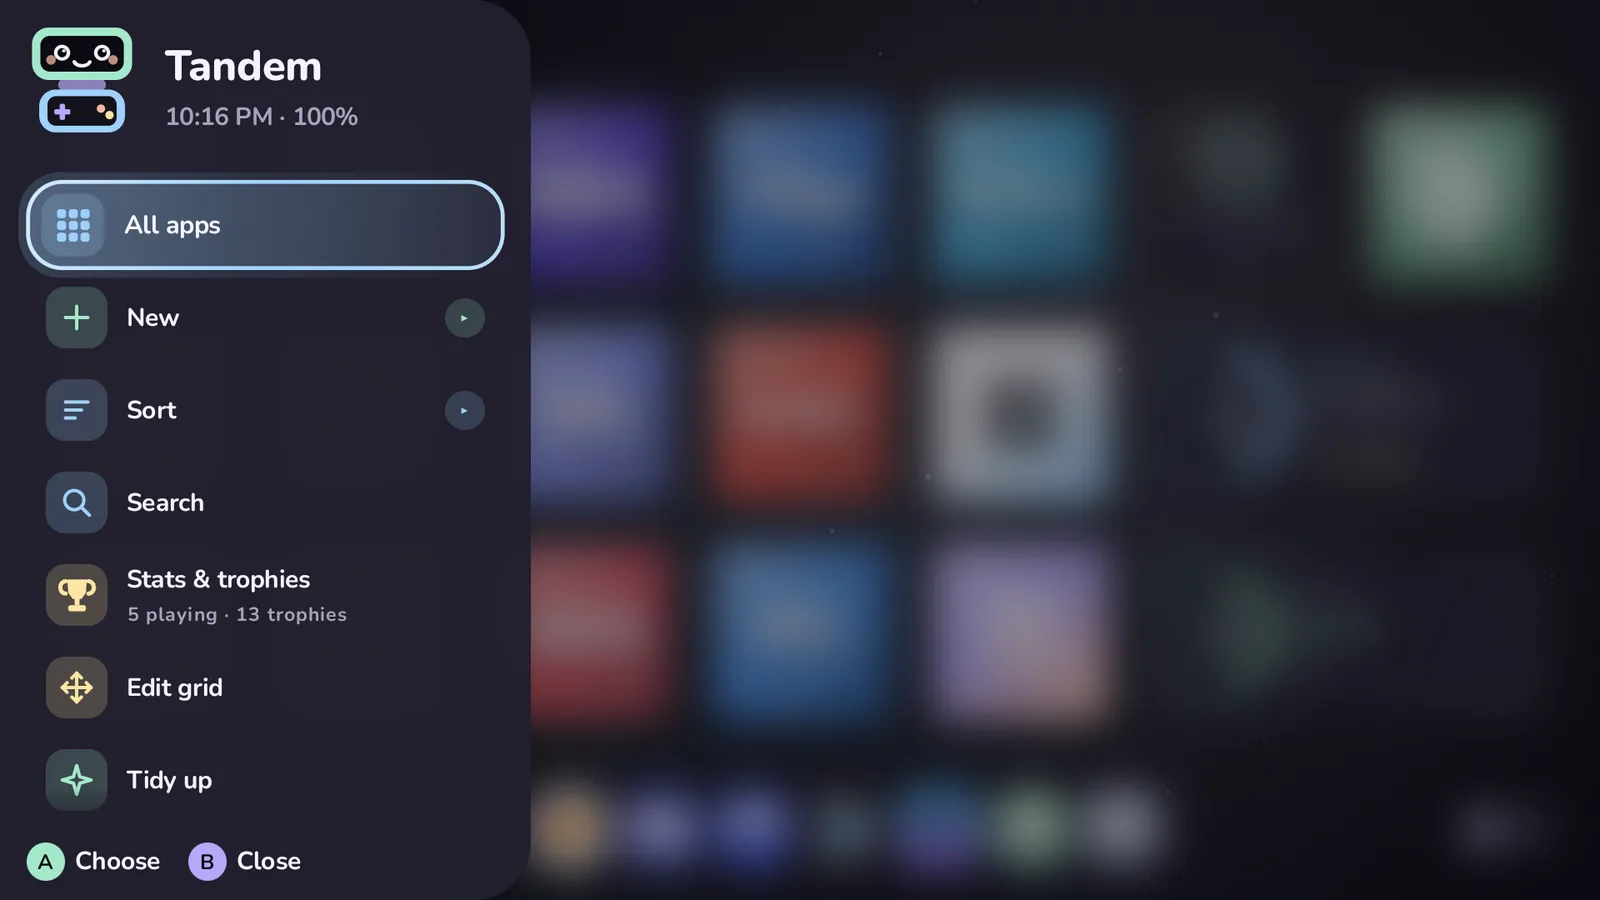
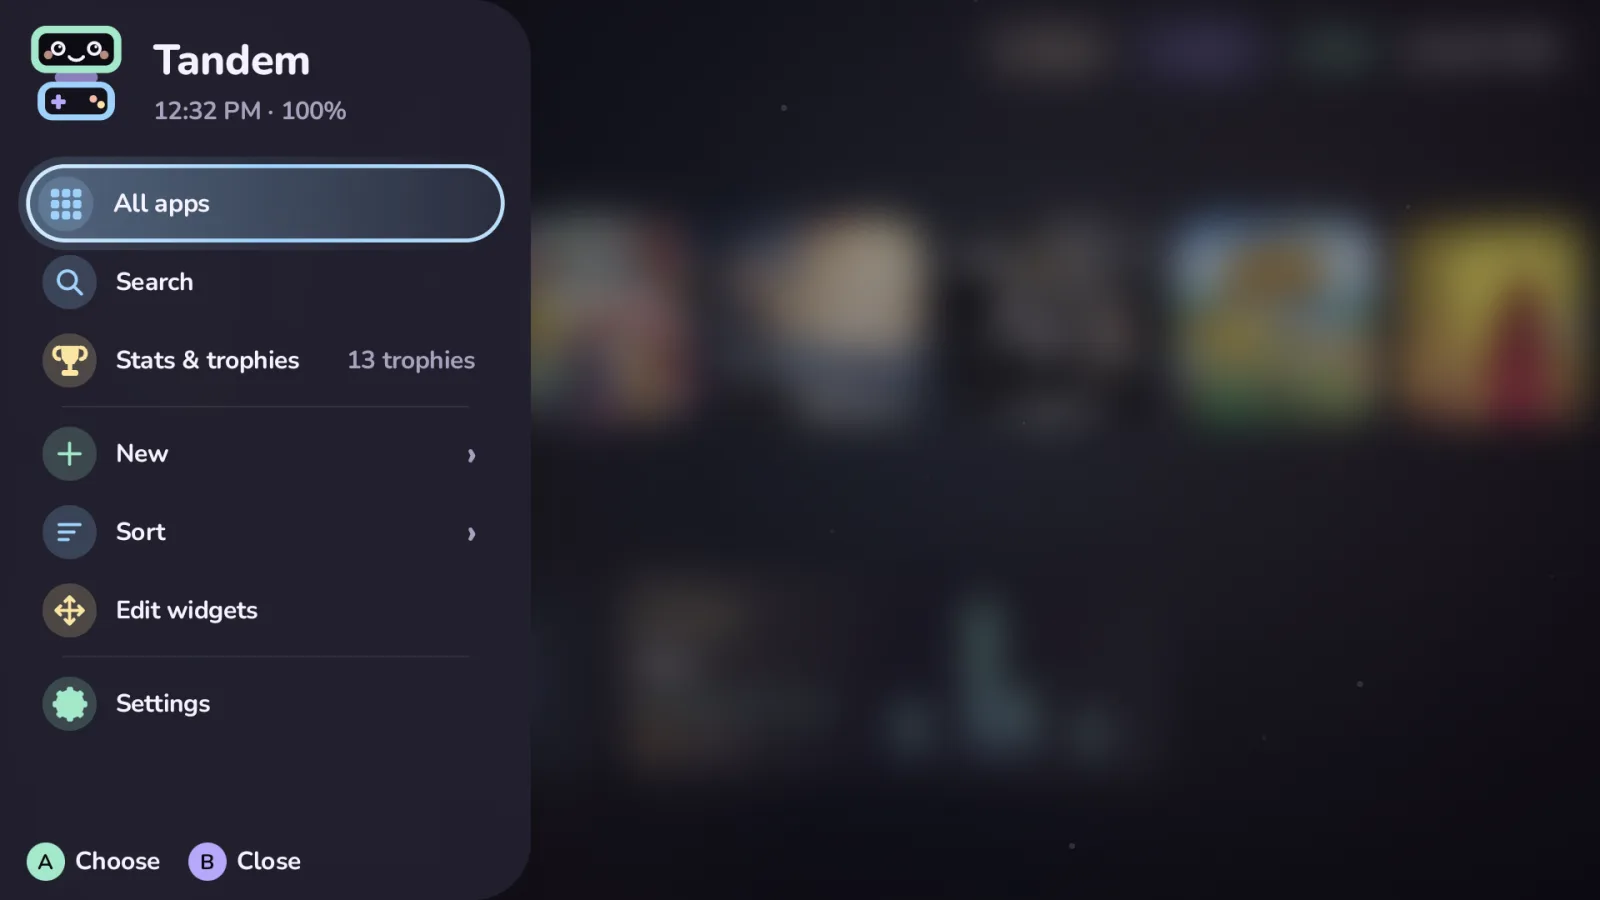
docs: screenshots of the new panels, systems, choices and scrape screen

diff --git a/site/index.html b/site/index.html
@@ -261,7 +261,7 @@
       <figure class="shot sm reveal"><img src="assets/screenshots/home-bottom.webp" width="1000" height="871" loading="lazy" decoding="async" alt="Bottom screen greeting: Pip, the time, a greeting, how many games are ready to play, and the last game played."><figcaption><b>Pip says hello</b> when nothing is highlighted.</figcaption></figure>
       <figure class="shot sm reveal"><img src="assets/screenshots/game-bottom.webp" width="1000" height="871" loading="lazy" decoding="async" alt="Bottom screen for Pokémon Emerald with a Running badge and A Resume."><figcaption><b>Still running?</b> A says Resume.</figcaption></figure>
       <figure class="shot sm reveal"><img src="assets/screenshots/folder-bottom.webp" width="1000" height="871" loading="lazy" decoding="async" alt="Bottom screen for a highlighted folder: Action and Adventure, with its game count and a fan of covers."><figcaption><b>A folder</b> fans out its covers.</figcaption></figure>
-      <figure class="shot reveal"><img src="assets/screenshots/start-panel.webp" width="1600" height="900" loading="lazy" decoding="async" alt="The Start panel over a blurred home: All apps, New, Sort, Search, Stats and trophies, Edit grid and Tidy up."><figcaption><b>Start</b> opens the side panel.</figcaption></figure>
+      <figure class="shot reveal"><img src="assets/screenshots/start-panel.webp" width="1600" height="900" loading="lazy" decoding="async" alt="The Start panel over a blurred home: All apps, Search and Stats and trophies, then New, Sort and Edit widgets, then Settings."><figcaption><b>Start</b> opens the side panel.</figcaption></figure>
       <figure class="shot reveal"><img src="assets/screenshots/screensaver.webp" width="1600" height="900" loading="lazy" decoding="async" alt="The screensaver: a large clock and date, game covers drifting around, and a sleeping Pip."><figcaption><b>The screensaver,</b> with a sleepy Pip.</figcaption></figure>
     </div>
   </div>

diff --git a/docs/guide/settings.md b/docs/guide/settings.md
@@ -19,6 +19,10 @@ starting on the one in use. A number is a slider. For a setting that changes how
 rows plays what it does: a switch shows its Off and On looks in turn, a choice each of its options, with a chip naming
 what is on screen and **In use** on yours. With Reduce motion they stand side by side, still.
 
+![Home & layout: System tiles and Open folders show their options on the row (Pastel, Solid colour, Glass, Minimal; Page, Fullscreen, Popup), Now playing is a switch, and the panel on the right plays Open folders' Page look with In use under it.](../../site/assets/screenshots/guide/settings-showcase.webp "Choices on the row, and a showcase")
+
+![The Accent colour cards: Theme (ticked, in use), Mint, Peach, Lavender, Sky, Butter, Sakura, Coral, Hot pink, Grape, Ocean and Teal, each a little switch and bar in that colour.](../../site/assets/screenshots/guide/settings-picker.webp "A choice with many options opens as cards")
+
 Some rows only show with the home layout they belong to (the icon grid's rows only with the icon grid, Orbit's only
 with Orbit, and so on), and a few show only when they can do something (Discord only in builds that include it, the
 Theme pack group only when your theme pack brings music or sounds).
@@ -191,7 +195,7 @@ it mutes Tandem too.
 
 ## Library & art
 
-![The Library & art page: the Games & systems and Artwork & accounts groups, with Set up sources highlighted and its help on the right.](../../site/assets/screenshots/guide/settings-library-art.webp "Settings › Library & art")
+![The Library & art page: Game folders (highlighted, its help on the right), Rescan games, Watch game folders, Sort games by, Systems and emulators and Android apps.](../../site/assets/screenshots/guide/settings-library-art.webp "Settings › Library & art")
 
 | Group | Setting | Default | What it does |
 | --- | --- | --- | --- |

diff --git a/docs/guide/platforms.md b/docs/guide/platforms.md
@@ -42,6 +42,8 @@ Three tabs at the top sort them, each with a count: **In your library** (systems
 Systems with the most games come first; ones with as many go by maker, so a maker's systems sit together. **X** (or
 the search field) searches by name, short name or maker: "sega", "gba", "Sony".
 
+![Systems and emulators: a search field and the In your library, Turned off and More systems tabs with their counts above a grid of system tiles (3DS, DS, Switch, PC, Wii U, then Game Boy, GBA, GBC and Vita), each with its picture, name, game count and emulator icon.](../../site/assets/screenshots/guide/systems-emulators.webp "Systems and emulators")
+
 A on a system opens its page, with its picture over its hero art:
 
 | Part | What it does |
@@ -58,7 +60,7 @@ Start games on and Bottom screen while playing are left out.
 
 A game can still use another emulator than its system's: Y on it › More › **Emulator**.
 
-![A system's page in Systems and emulators: the system's art over its hero with the Show in library switch, emulator cards with their app icons and the default ticked, Top and Bottom screen cards, the bottom screen's choices as cards, and the folder cards.](../../site/assets/screenshots/guide/systems-emulators.webp "A system in Systems and emulators")
+![The Nintendo DS page: the system's picture, maker and game count with the Show in library switch, then the emulators four to a row with their app icons: melonDS Dual ticked as the default, others marked Installed, and melonDS and DraStic with Get it.](../../site/assets/screenshots/guide/system-page.webp "A system's page")
 
 ## Using your own platforms.json
 

diff --git a/docs/guide/controls.md b/docs/guide/controls.md
@@ -101,7 +101,7 @@ the screensaver) are in [Quick settings](#quick-settings), so nothing is in both
 
 Themes, sounds and music are in **Settings › Look & feel** and **Sound & music**, and in the **Themes** app.
 
-![The Start panel folded open from the left: All apps, Search, Stats & trophies, New, Sort, Edit grid and Settings.](../../site/assets/screenshots/start-panel.webp "The Start panel")
+![The Start panel folded open from the left: All apps, Search, Stats & trophies, then New, Sort and Edit widgets (Edit grid on the icon grid), then Settings.](../../site/assets/screenshots/start-panel.webp "The Start panel")
 
 ## The top bar
 
@@ -128,6 +128,8 @@ Hold <kbd>Start</kbd>, or **◐ Quick** in the top bar, or A on the Battery widg
 that takes you somewhere else. Brightness and volume, then tiles for Wi-Fi, Bluetooth, Airplane, Controller, Discord,
 Battery saver, Private mode, Screensaver and Android's settings. See
 [Every setting › Quick settings](settings.md#quick-settings).
+
+![The R2 side panel with the quick settings: Brightness and Volume sliders, then tiles for Wi-Fi and Bluetooth (both on, washed in their colours), Airplane, Controller, Discord (showing), Battery saver, Private mode, Screensaver and Android, each with its state under its name.](../../site/assets/screenshots/guide/quick-settings.webp "Quick settings")
 
 ## The side panel
 

diff --git a/docs/guide/scraping.md b/docs/guide/scraping.md
@@ -152,6 +152,8 @@ without its keys is simply skipped, so with no keys the order is in effect Launc
 | <kbd>Y</kbd> on a game › **More…** › **Scrape this game** | That game alone, at once, with your settings in Force all mode (never replacing locked fields). Pip says "Looking for …" |
 | <kbd>Y</kbd> on a game › **More…** › **Choose artwork** | Shows what every source has for that game; L1 / R1 switch between box art, hero and logo; **From this device** uses a picture of your own |
 
+![The scrape screen: the art kinds as tiles with a real picture from your games, ticked when on (Box art, Hero, Logo, Gameplay), with Title screen, Video and Physical box off; on the right how many games will be checked, a note on the mode and Start scraping.](../../site/assets/screenshots/guide/scrape-library.webp "Settings › Library & art › Scrape library")
+
 The scrape screen's options:
 
 | Option | Default | What it does |
